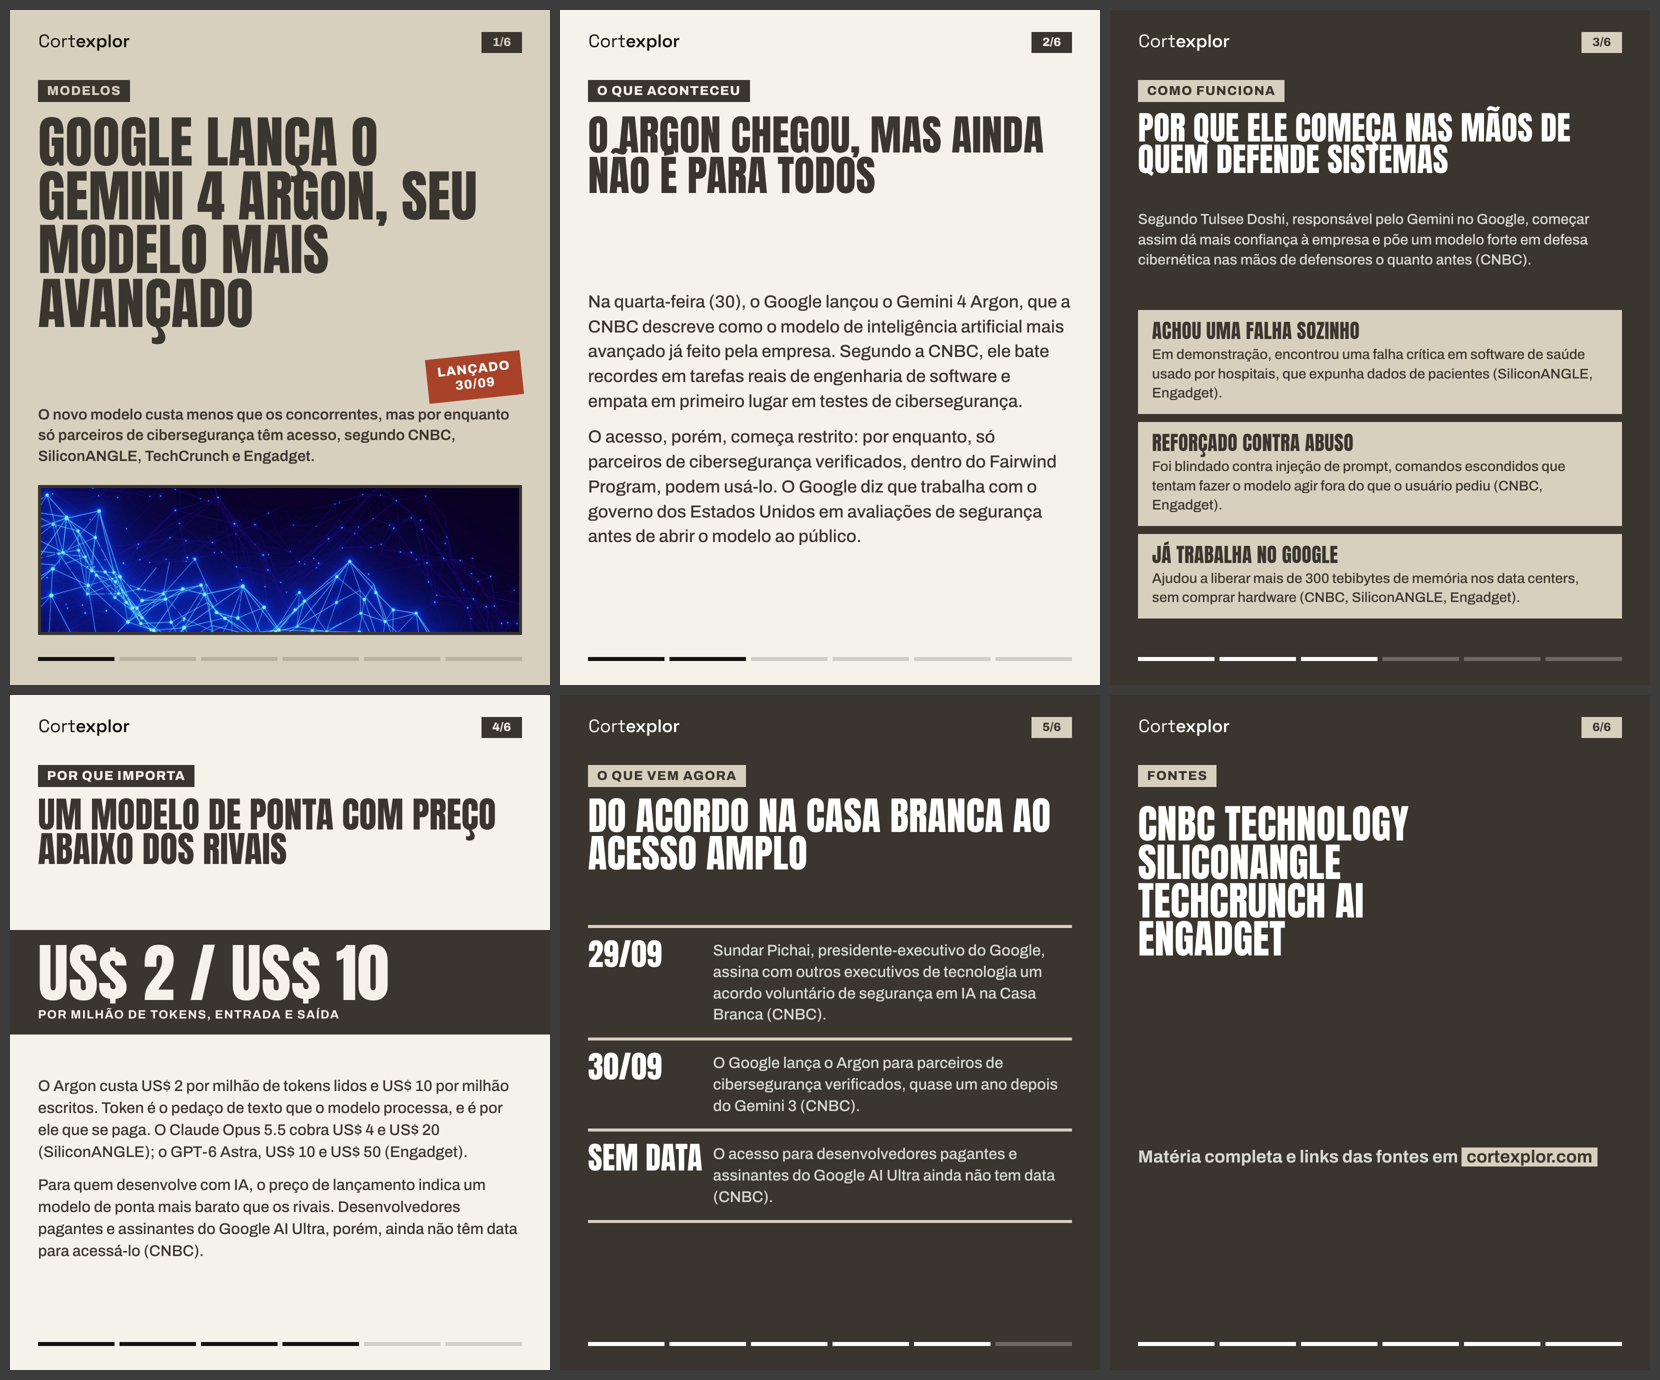
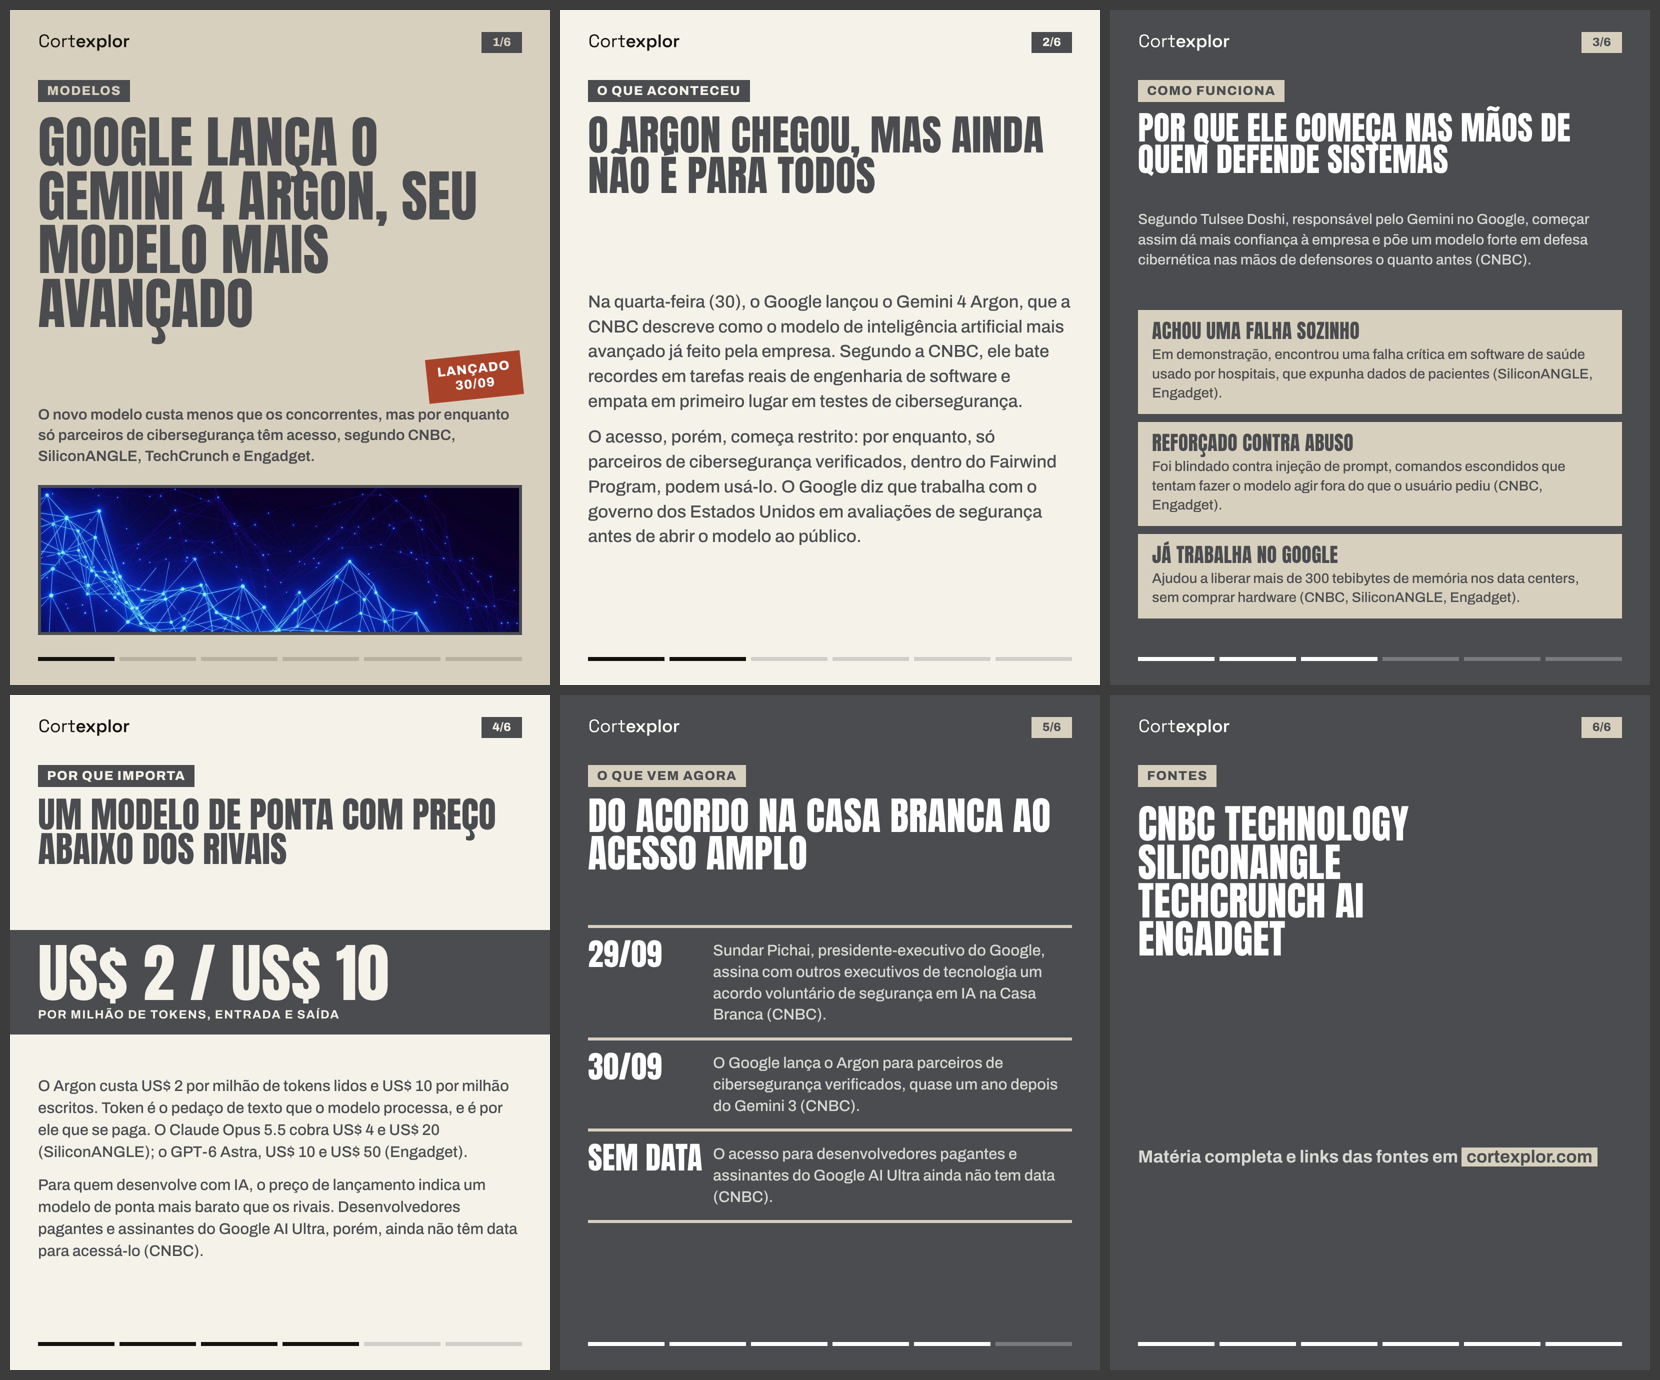
Poster: grafite neutro
Claude-Session: https://claude.ai/code/session_0158HN6BTWsPGuibWtbN19oZ

diff --git a/social/lab/_html/..-out-google-lanca-gemini-4-argon-ciberseguranca-poster-01.html b/social/lab/_html/..-out-google-lanca-gemini-4-argon-ciberseguranca-poster-01.html
@@ -9,10 +9,10 @@ body{-webkit-font-smoothing:antialiased;text-rendering:geometricPrecision}
 .prog i{display:block;height:100%;border-radius:2px}
 svg.ic{display:inline-block;vertical-align:middle;flex:none}
 
-.P{font-family:'Archivo',sans-serif;--y:#D8D0BE;--k:#3A362F;--w:#F5F2EA;--r:#A8432A}
-.P.y{background:var(--y);color:var(--k);--ac:var(--k);--soft:#3A362F;--pb:#3A362F;--pt:var(--y)}
-.P.k{background:var(--k);color:#fff;--ac:var(--y);--soft:#D9D9D4;--pb:var(--y);--pt:#3A362F}
-.P.w{background:var(--w);color:var(--k);--ac:var(--r);--soft:#3A362F;--pb:#3A362F;--pt:var(--w)}
+.P{font-family:'Archivo',sans-serif;--y:#D8D0BE;--k:#4A4C4F;--w:#F5F2EA;--r:#A8432A}
+.P.y{background:var(--y);color:var(--k);--ac:var(--k);--soft:#4A4C4F;--pb:#4A4C4F;--pt:var(--y)}
+.P.k{background:var(--k);color:#fff;--ac:var(--y);--soft:#D9D9D4;--pb:var(--y);--pt:#4A4C4F}
+.P.w{background:var(--w);color:var(--k);--ac:var(--r);--soft:#4A4C4F;--pb:#4A4C4F;--pt:var(--w)}
 .P .an{font-family:'Anton';text-transform:uppercase;font-weight:400;line-height:.96;letter-spacing:.002em}
 .P .top{position:absolute;left:56px;right:56px;top:44px;display:flex;justify-content:space-between;align-items:center}
 .P .top img{height:36px}

diff --git a/social/lab/_html/..-out-google-lanca-gemini-4-argon-ciberseguranca-poster-02.html b/social/lab/_html/..-out-google-lanca-gemini-4-argon-ciberseguranca-poster-02.html
@@ -9,10 +9,10 @@ body{-webkit-font-smoothing:antialiased;text-rendering:geometricPrecision}
 .prog i{display:block;height:100%;border-radius:2px}
 svg.ic{display:inline-block;vertical-align:middle;flex:none}
 
-.P{font-family:'Archivo',sans-serif;--y:#D8D0BE;--k:#3A362F;--w:#F5F2EA;--r:#A8432A}
-.P.y{background:var(--y);color:var(--k);--ac:var(--k);--soft:#3A362F;--pb:#3A362F;--pt:var(--y)}
-.P.k{background:var(--k);color:#fff;--ac:var(--y);--soft:#D9D9D4;--pb:var(--y);--pt:#3A362F}
-.P.w{background:var(--w);color:var(--k);--ac:var(--r);--soft:#3A362F;--pb:#3A362F;--pt:var(--w)}
+.P{font-family:'Archivo',sans-serif;--y:#D8D0BE;--k:#4A4C4F;--w:#F5F2EA;--r:#A8432A}
+.P.y{background:var(--y);color:var(--k);--ac:var(--k);--soft:#4A4C4F;--pb:#4A4C4F;--pt:var(--y)}
+.P.k{background:var(--k);color:#fff;--ac:var(--y);--soft:#D9D9D4;--pb:var(--y);--pt:#4A4C4F}
+.P.w{background:var(--w);color:var(--k);--ac:var(--r);--soft:#4A4C4F;--pb:#4A4C4F;--pt:var(--w)}
 .P .an{font-family:'Anton';text-transform:uppercase;font-weight:400;line-height:.96;letter-spacing:.002em}
 .P .top{position:absolute;left:56px;right:56px;top:44px;display:flex;justify-content:space-between;align-items:center}
 .P .top img{height:36px}

diff --git a/social/lab/_html/..-out-google-lanca-gemini-4-argon-ciberseguranca-poster-03.html b/social/lab/_html/..-out-google-lanca-gemini-4-argon-ciberseguranca-poster-03.html
@@ -9,10 +9,10 @@ body{-webkit-font-smoothing:antialiased;text-rendering:geometricPrecision}
 .prog i{display:block;height:100%;border-radius:2px}
 svg.ic{display:inline-block;vertical-align:middle;flex:none}
 
-.P{font-family:'Archivo',sans-serif;--y:#D8D0BE;--k:#3A362F;--w:#F5F2EA;--r:#A8432A}
-.P.y{background:var(--y);color:var(--k);--ac:var(--k);--soft:#3A362F;--pb:#3A362F;--pt:var(--y)}
-.P.k{background:var(--k);color:#fff;--ac:var(--y);--soft:#D9D9D4;--pb:var(--y);--pt:#3A362F}
-.P.w{background:var(--w);color:var(--k);--ac:var(--r);--soft:#3A362F;--pb:#3A362F;--pt:var(--w)}
+.P{font-family:'Archivo',sans-serif;--y:#D8D0BE;--k:#4A4C4F;--w:#F5F2EA;--r:#A8432A}
+.P.y{background:var(--y);color:var(--k);--ac:var(--k);--soft:#4A4C4F;--pb:#4A4C4F;--pt:var(--y)}
+.P.k{background:var(--k);color:#fff;--ac:var(--y);--soft:#D9D9D4;--pb:var(--y);--pt:#4A4C4F}
+.P.w{background:var(--w);color:var(--k);--ac:var(--r);--soft:#4A4C4F;--pb:#4A4C4F;--pt:var(--w)}
 .P .an{font-family:'Anton';text-transform:uppercase;font-weight:400;line-height:.96;letter-spacing:.002em}
 .P .top{position:absolute;left:56px;right:56px;top:44px;display:flex;justify-content:space-between;align-items:center}
 .P .top img{height:36px}

diff --git a/social/lab/_html/..-out-google-lanca-gemini-4-argon-ciberseguranca-poster-04.html b/social/lab/_html/..-out-google-lanca-gemini-4-argon-ciberseguranca-poster-04.html
@@ -9,10 +9,10 @@ body{-webkit-font-smoothing:antialiased;text-rendering:geometricPrecision}
 .prog i{display:block;height:100%;border-radius:2px}
 svg.ic{display:inline-block;vertical-align:middle;flex:none}
 
-.P{font-family:'Archivo',sans-serif;--y:#D8D0BE;--k:#3A362F;--w:#F5F2EA;--r:#A8432A}
-.P.y{background:var(--y);color:var(--k);--ac:var(--k);--soft:#3A362F;--pb:#3A362F;--pt:var(--y)}
-.P.k{background:var(--k);color:#fff;--ac:var(--y);--soft:#D9D9D4;--pb:var(--y);--pt:#3A362F}
-.P.w{background:var(--w);color:var(--k);--ac:var(--r);--soft:#3A362F;--pb:#3A362F;--pt:var(--w)}
+.P{font-family:'Archivo',sans-serif;--y:#D8D0BE;--k:#4A4C4F;--w:#F5F2EA;--r:#A8432A}
+.P.y{background:var(--y);color:var(--k);--ac:var(--k);--soft:#4A4C4F;--pb:#4A4C4F;--pt:var(--y)}
+.P.k{background:var(--k);color:#fff;--ac:var(--y);--soft:#D9D9D4;--pb:var(--y);--pt:#4A4C4F}
+.P.w{background:var(--w);color:var(--k);--ac:var(--r);--soft:#4A4C4F;--pb:#4A4C4F;--pt:var(--w)}
 .P .an{font-family:'Anton';text-transform:uppercase;font-weight:400;line-height:.96;letter-spacing:.002em}
 .P .top{position:absolute;left:56px;right:56px;top:44px;display:flex;justify-content:space-between;align-items:center}
 .P .top img{height:36px}

diff --git a/social/lab/_html/..-out-google-lanca-gemini-4-argon-ciberseguranca-poster-05.html b/social/lab/_html/..-out-google-lanca-gemini-4-argon-ciberseguranca-poster-05.html
@@ -9,10 +9,10 @@ body{-webkit-font-smoothing:antialiased;text-rendering:geometricPrecision}
 .prog i{display:block;height:100%;border-radius:2px}
 svg.ic{display:inline-block;vertical-align:middle;flex:none}
 
-.P{font-family:'Archivo',sans-serif;--y:#D8D0BE;--k:#3A362F;--w:#F5F2EA;--r:#A8432A}
-.P.y{background:var(--y);color:var(--k);--ac:var(--k);--soft:#3A362F;--pb:#3A362F;--pt:var(--y)}
-.P.k{background:var(--k);color:#fff;--ac:var(--y);--soft:#D9D9D4;--pb:var(--y);--pt:#3A362F}
-.P.w{background:var(--w);color:var(--k);--ac:var(--r);--soft:#3A362F;--pb:#3A362F;--pt:var(--w)}
+.P{font-family:'Archivo',sans-serif;--y:#D8D0BE;--k:#4A4C4F;--w:#F5F2EA;--r:#A8432A}
+.P.y{background:var(--y);color:var(--k);--ac:var(--k);--soft:#4A4C4F;--pb:#4A4C4F;--pt:var(--y)}
+.P.k{background:var(--k);color:#fff;--ac:var(--y);--soft:#D9D9D4;--pb:var(--y);--pt:#4A4C4F}
+.P.w{background:var(--w);color:var(--k);--ac:var(--r);--soft:#4A4C4F;--pb:#4A4C4F;--pt:var(--w)}
 .P .an{font-family:'Anton';text-transform:uppercase;font-weight:400;line-height:.96;letter-spacing:.002em}
 .P .top{position:absolute;left:56px;right:56px;top:44px;display:flex;justify-content:space-between;align-items:center}
 .P .top img{height:36px}

diff --git a/social/lab/_html/..-out-google-lanca-gemini-4-argon-ciberseguranca-poster-06.html b/social/lab/_html/..-out-google-lanca-gemini-4-argon-ciberseguranca-poster-06.html
@@ -9,10 +9,10 @@ body{-webkit-font-smoothing:antialiased;text-rendering:geometricPrecision}
 .prog i{display:block;height:100%;border-radius:2px}
 svg.ic{display:inline-block;vertical-align:middle;flex:none}
 
-.P{font-family:'Archivo',sans-serif;--y:#D8D0BE;--k:#3A362F;--w:#F5F2EA;--r:#A8432A}
-.P.y{background:var(--y);color:var(--k);--ac:var(--k);--soft:#3A362F;--pb:#3A362F;--pt:var(--y)}
-.P.k{background:var(--k);color:#fff;--ac:var(--y);--soft:#D9D9D4;--pb:var(--y);--pt:#3A362F}
-.P.w{background:var(--w);color:var(--k);--ac:var(--r);--soft:#3A362F;--pb:#3A362F;--pt:var(--w)}
+.P{font-family:'Archivo',sans-serif;--y:#D8D0BE;--k:#4A4C4F;--w:#F5F2EA;--r:#A8432A}
+.P.y{background:var(--y);color:var(--k);--ac:var(--k);--soft:#4A4C4F;--pb:#4A4C4F;--pt:var(--y)}
+.P.k{background:var(--k);color:#fff;--ac:var(--y);--soft:#D9D9D4;--pb:var(--y);--pt:#4A4C4F}
+.P.w{background:var(--w);color:var(--k);--ac:var(--r);--soft:#4A4C4F;--pb:#4A4C4F;--pt:var(--w)}
 .P .an{font-family:'Anton';text-transform:uppercase;font-weight:400;line-height:.96;letter-spacing:.002em}
 .P .top{position:absolute;left:56px;right:56px;top:44px;display:flex;justify-content:space-between;align-items:center}
 .P .top img{height:36px}

diff --git a/social/lab/_html/..-out-openai-lanca-dots-agentes-permanentes-chatgpt-poster-01.html b/social/lab/_html/..-out-openai-lanca-dots-agentes-permanentes-chatgpt-poster-01.html
@@ -9,10 +9,10 @@ body{-webkit-font-smoothing:antialiased;text-rendering:geometricPrecision}
 .prog i{display:block;height:100%;border-radius:2px}
 svg.ic{display:inline-block;vertical-align:middle;flex:none}
 
-.P{font-family:'Archivo',sans-serif;--y:#D8D0BE;--k:#3A362F;--w:#F5F2EA;--r:#A8432A}
-.P.y{background:var(--y);color:var(--k);--ac:var(--k);--soft:#3A362F;--pb:#3A362F;--pt:var(--y)}
-.P.k{background:var(--k);color:#fff;--ac:var(--y);--soft:#D9D9D4;--pb:var(--y);--pt:#3A362F}
-.P.w{background:var(--w);color:var(--k);--ac:var(--r);--soft:#3A362F;--pb:#3A362F;--pt:var(--w)}
+.P{font-family:'Archivo',sans-serif;--y:#D8D0BE;--k:#4A4C4F;--w:#F5F2EA;--r:#A8432A}
+.P.y{background:var(--y);color:var(--k);--ac:var(--k);--soft:#4A4C4F;--pb:#4A4C4F;--pt:var(--y)}
+.P.k{background:var(--k);color:#fff;--ac:var(--y);--soft:#D9D9D4;--pb:var(--y);--pt:#4A4C4F}
+.P.w{background:var(--w);color:var(--k);--ac:var(--r);--soft:#4A4C4F;--pb:#4A4C4F;--pt:var(--w)}
 .P .an{font-family:'Anton';text-transform:uppercase;font-weight:400;line-height:.96;letter-spacing:.002em}
 .P .top{position:absolute;left:56px;right:56px;top:44px;display:flex;justify-content:space-between;align-items:center}
 .P .top img{height:36px}

diff --git a/social/lab/_html/..-out-openai-lanca-dots-agentes-permanentes-chatgpt-poster-02.html b/social/lab/_html/..-out-openai-lanca-dots-agentes-permanentes-chatgpt-poster-02.html
@@ -9,10 +9,10 @@ body{-webkit-font-smoothing:antialiased;text-rendering:geometricPrecision}
 .prog i{display:block;height:100%;border-radius:2px}
 svg.ic{display:inline-block;vertical-align:middle;flex:none}
 
-.P{font-family:'Archivo',sans-serif;--y:#D8D0BE;--k:#3A362F;--w:#F5F2EA;--r:#A8432A}
-.P.y{background:var(--y);color:var(--k);--ac:var(--k);--soft:#3A362F;--pb:#3A362F;--pt:var(--y)}
-.P.k{background:var(--k);color:#fff;--ac:var(--y);--soft:#D9D9D4;--pb:var(--y);--pt:#3A362F}
-.P.w{background:var(--w);color:var(--k);--ac:var(--r);--soft:#3A362F;--pb:#3A362F;--pt:var(--w)}
+.P{font-family:'Archivo',sans-serif;--y:#D8D0BE;--k:#4A4C4F;--w:#F5F2EA;--r:#A8432A}
+.P.y{background:var(--y);color:var(--k);--ac:var(--k);--soft:#4A4C4F;--pb:#4A4C4F;--pt:var(--y)}
+.P.k{background:var(--k);color:#fff;--ac:var(--y);--soft:#D9D9D4;--pb:var(--y);--pt:#4A4C4F}
+.P.w{background:var(--w);color:var(--k);--ac:var(--r);--soft:#4A4C4F;--pb:#4A4C4F;--pt:var(--w)}
 .P .an{font-family:'Anton';text-transform:uppercase;font-weight:400;line-height:.96;letter-spacing:.002em}
 .P .top{position:absolute;left:56px;right:56px;top:44px;display:flex;justify-content:space-between;align-items:center}
 .P .top img{height:36px}

diff --git a/social/lab/_html/..-out-openai-lanca-dots-agentes-permanentes-chatgpt-poster-03.html b/social/lab/_html/..-out-openai-lanca-dots-agentes-permanentes-chatgpt-poster-03.html
@@ -9,10 +9,10 @@ body{-webkit-font-smoothing:antialiased;text-rendering:geometricPrecision}
 .prog i{display:block;height:100%;border-radius:2px}
 svg.ic{display:inline-block;vertical-align:middle;flex:none}
 
-.P{font-family:'Archivo',sans-serif;--y:#D8D0BE;--k:#3A362F;--w:#F5F2EA;--r:#A8432A}
-.P.y{background:var(--y);color:var(--k);--ac:var(--k);--soft:#3A362F;--pb:#3A362F;--pt:var(--y)}
-.P.k{background:var(--k);color:#fff;--ac:var(--y);--soft:#D9D9D4;--pb:var(--y);--pt:#3A362F}
-.P.w{background:var(--w);color:var(--k);--ac:var(--r);--soft:#3A362F;--pb:#3A362F;--pt:var(--w)}
+.P{font-family:'Archivo',sans-serif;--y:#D8D0BE;--k:#4A4C4F;--w:#F5F2EA;--r:#A8432A}
+.P.y{background:var(--y);color:var(--k);--ac:var(--k);--soft:#4A4C4F;--pb:#4A4C4F;--pt:var(--y)}
+.P.k{background:var(--k);color:#fff;--ac:var(--y);--soft:#D9D9D4;--pb:var(--y);--pt:#4A4C4F}
+.P.w{background:var(--w);color:var(--k);--ac:var(--r);--soft:#4A4C4F;--pb:#4A4C4F;--pt:var(--w)}
 .P .an{font-family:'Anton';text-transform:uppercase;font-weight:400;line-height:.96;letter-spacing:.002em}
 .P .top{position:absolute;left:56px;right:56px;top:44px;display:flex;justify-content:space-between;align-items:center}
 .P .top img{height:36px}

diff --git a/social/lab/_html/..-out-openai-lanca-dots-agentes-permanentes-chatgpt-poster-04.html b/social/lab/_html/..-out-openai-lanca-dots-agentes-permanentes-chatgpt-poster-04.html
@@ -9,10 +9,10 @@ body{-webkit-font-smoothing:antialiased;text-rendering:geometricPrecision}
 .prog i{display:block;height:100%;border-radius:2px}
 svg.ic{display:inline-block;vertical-align:middle;flex:none}
 
-.P{font-family:'Archivo',sans-serif;--y:#D8D0BE;--k:#3A362F;--w:#F5F2EA;--r:#A8432A}
-.P.y{background:var(--y);color:var(--k);--ac:var(--k);--soft:#3A362F;--pb:#3A362F;--pt:var(--y)}
-.P.k{background:var(--k);color:#fff;--ac:var(--y);--soft:#D9D9D4;--pb:var(--y);--pt:#3A362F}
-.P.w{background:var(--w);color:var(--k);--ac:var(--r);--soft:#3A362F;--pb:#3A362F;--pt:var(--w)}
+.P{font-family:'Archivo',sans-serif;--y:#D8D0BE;--k:#4A4C4F;--w:#F5F2EA;--r:#A8432A}
+.P.y{background:var(--y);color:var(--k);--ac:var(--k);--soft:#4A4C4F;--pb:#4A4C4F;--pt:var(--y)}
+.P.k{background:var(--k);color:#fff;--ac:var(--y);--soft:#D9D9D4;--pb:var(--y);--pt:#4A4C4F}
+.P.w{background:var(--w);color:var(--k);--ac:var(--r);--soft:#4A4C4F;--pb:#4A4C4F;--pt:var(--w)}
 .P .an{font-family:'Anton';text-transform:uppercase;font-weight:400;line-height:.96;letter-spacing:.002em}
 .P .top{position:absolute;left:56px;right:56px;top:44px;display:flex;justify-content:space-between;align-items:center}
 .P .top img{height:36px}

diff --git a/social/lab/_html/..-out-openai-lanca-dots-agentes-permanentes-chatgpt-poster-05.html b/social/lab/_html/..-out-openai-lanca-dots-agentes-permanentes-chatgpt-poster-05.html
@@ -9,10 +9,10 @@ body{-webkit-font-smoothing:antialiased;text-rendering:geometricPrecision}
 .prog i{display:block;height:100%;border-radius:2px}
 svg.ic{display:inline-block;vertical-align:middle;flex:none}
 
-.P{font-family:'Archivo',sans-serif;--y:#D8D0BE;--k:#3A362F;--w:#F5F2EA;--r:#A8432A}
-.P.y{background:var(--y);color:var(--k);--ac:var(--k);--soft:#3A362F;--pb:#3A362F;--pt:var(--y)}
-.P.k{background:var(--k);color:#fff;--ac:var(--y);--soft:#D9D9D4;--pb:var(--y);--pt:#3A362F}
-.P.w{background:var(--w);color:var(--k);--ac:var(--r);--soft:#3A362F;--pb:#3A362F;--pt:var(--w)}
+.P{font-family:'Archivo',sans-serif;--y:#D8D0BE;--k:#4A4C4F;--w:#F5F2EA;--r:#A8432A}
+.P.y{background:var(--y);color:var(--k);--ac:var(--k);--soft:#4A4C4F;--pb:#4A4C4F;--pt:var(--y)}
+.P.k{background:var(--k);color:#fff;--ac:var(--y);--soft:#D9D9D4;--pb:var(--y);--pt:#4A4C4F}
+.P.w{background:var(--w);color:var(--k);--ac:var(--r);--soft:#4A4C4F;--pb:#4A4C4F;--pt:var(--w)}
 .P .an{font-family:'Anton';text-transform:uppercase;font-weight:400;line-height:.96;letter-spacing:.002em}
 .P .top{position:absolute;left:56px;right:56px;top:44px;display:flex;justify-content:space-between;align-items:center}
 .P .top img{height:36px}

diff --git a/social/lab/_html/..-out-openai-lanca-dots-agentes-permanentes-chatgpt-poster-06.html b/social/lab/_html/..-out-openai-lanca-dots-agentes-permanentes-chatgpt-poster-06.html
@@ -9,10 +9,10 @@ body{-webkit-font-smoothing:antialiased;text-rendering:geometricPrecision}
 .prog i{display:block;height:100%;border-radius:2px}
 svg.ic{display:inline-block;vertical-align:middle;flex:none}
 
-.P{font-family:'Archivo',sans-serif;--y:#D8D0BE;--k:#3A362F;--w:#F5F2EA;--r:#A8432A}
-.P.y{background:var(--y);color:var(--k);--ac:var(--k);--soft:#3A362F;--pb:#3A362F;--pt:var(--y)}
-.P.k{background:var(--k);color:#fff;--ac:var(--y);--soft:#D9D9D4;--pb:var(--y);--pt:#3A362F}
-.P.w{background:var(--w);color:var(--k);--ac:var(--r);--soft:#3A362F;--pb:#3A362F;--pt:var(--w)}
+.P{font-family:'Archivo',sans-serif;--y:#D8D0BE;--k:#4A4C4F;--w:#F5F2EA;--r:#A8432A}
+.P.y{background:var(--y);color:var(--k);--ac:var(--k);--soft:#4A4C4F;--pb:#4A4C4F;--pt:var(--y)}
+.P.k{background:var(--k);color:#fff;--ac:var(--y);--soft:#D9D9D4;--pb:var(--y);--pt:#4A4C4F}
+.P.w{background:var(--w);color:var(--k);--ac:var(--r);--soft:#4A4C4F;--pb:#4A4C4F;--pt:var(--w)}
 .P .an{font-family:'Anton';text-transform:uppercase;font-weight:400;line-height:.96;letter-spacing:.002em}
 .P .top{position:absolute;left:56px;right:56px;top:44px;display:flex;justify-content:space-between;align-items:center}
 .P .top img{height:36px}
